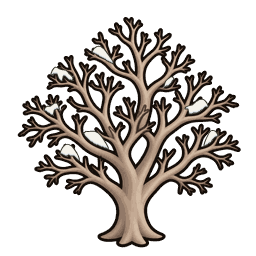
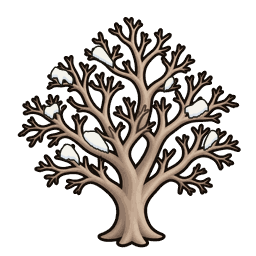
Occlude upper branch face with foreground snow lip

diff --git a/Scripts/Art/build_beech_snow.py b/Scripts/Art/build_beech_snow.py
@@ -21,7 +21,7 @@ LEAFLESS_BRANCHES = (
     (185, 208, 113, 111, 12), (83, 108, 136, 149, 12),
     (204, 218, 146, 140, 10), (60, 79, 158, 161, 12),
 )
-SNOW_OUTLINE = (55, 53, 43, 255)
+SNOW_OUTLINE = (32, 29, 22, 255)
 SNOW_BASE = (245, 243, 235, 255)
 SNOW_SHADOW = (218, 225, 232, 255)
 
@@ -56,20 +56,23 @@ def build_leafless_clumps(master, anchors=None):
         # Contract is independent of painted alpha and never widened after a leak.
         contract.rectangle((x0-2,min(y0,y1)-depth-7,
                             x1+2,max(y0,y1)+5),fill=255)
-        bottom=branch_surface(master,branch)
+        surface=branch_surface(master,branch)
+        # Opaque snow lip covers the original upper outline/wood face.
+        # Ending at the silhouette edge incorrectly leaves wood in foreground.
+        bottom=[(x,y+4) for x,y in surface]
         top=[]
         for x,y in bottom:
             t=(x-x0)/(x1-x0)
             # Thickness tapers into the branch at both ends, with unequal lobes.
             h=1+depth*(math.sin(math.pi*t)**.7)*(.85+.15*math.sin(t*5+index))
             near=[v for xx,v in bottom if abs(xx-x)<=3]
-            top.append((x,sum(near)/len(near)-h))
+            top.append((x,sum(near)/len(near)-h-4))
         polygon=top+list(reversed(bottom))
         draw.polygon([(round(x*scale),round(y*scale)) for x,y in polygon],fill=SNOW_BASE)
-        shadow=[(x,y-1.8) for x,y in bottom]+list(reversed(bottom))
+        shadow=[(x,y-3.5) for x,y in bottom]+list(reversed(bottom))
         draw.polygon([(round(x*scale),round(y*scale)) for x,y in shadow],fill=SNOW_SHADOW)
         draw.line([(round(x*scale),round(y*scale)) for x,y in polygon+[polygon[0]]],
-                  fill=SNOW_OUTLINE,width=scale,joint='curve')
+                  fill=SNOW_OUTLINE,width=round(1.5*scale),joint='curve')
     layer=high.resize(master.size,Image.Resampling.BOX)
     assert all(not a or m for a,m in zip(layer.getchannel('A').tobytes(),mask.tobytes())), 'Artwork escaped review contract'
     return mask,layer
@@ -130,11 +133,11 @@ def build(leafless):
     if leafless:
         approval_basis = (
             'Rejected by author on 2026-10-06 because snow read as thin '
-            'branch-following lines; branch-contact snow revision 3 awaiting review'
+            'branch-following lines; front-occluding snow revision 4 awaiting review'
         )
         mask_meaning = (
             'Eight narrow branch corridors traced against original opaque upper surfaces; '
-            'unapproved revision 3, unchanged lower trunk and all outside RGBA'
+            'unapproved revision 4, unchanged lower trunk and all outside RGBA'
         )
     else:
         approval_basis = (
@@ -147,7 +150,7 @@ def build(leafless):
     spec = {
         'version': 1,
         'family': f'AMJE-{name}-snow',
-        'template_revision': 'v3-review' if leafless else 'v1',
+        'template_revision': 'v4-review' if leafless else 'v1',
         'production_status': 'review',
         'size': [256, 256],
         'master': {'path': 'master.png', 'sha256': sha(source)},

diff --git a/Tests/validate_beech_snow.py b/Tests/validate_beech_snow.py
@@ -8,6 +8,7 @@ sys.path.insert(0,str(root/'Tests/Tools'))
 import fixed_template
 sys.path.insert(0, str(root/'Scripts/Art'))
 from build_haimatsu_snow import components
+from build_beech_snow import branch_surface, LEAFLESS_BRANCHES
 
 
 def validate_leafless_massing(layer, base):
@@ -23,9 +24,10 @@ def validate_leafless_massing(layer, base):
         outline = sum(max(layer.getpixel(p)[:3]) < 100 for p in mass)
         assert outline >= 20, 'Snow needs a strong dark outer contour'
         bottom={x:max(yy for xx,yy in mass if xx==x) for x,y in mass}
-        supported=sum(any(base.getpixel((x,min(base.height-1,y+dy)))[3]>=128
-                          for dy in (0,1)) for x,y in bottom.items())
-        assert supported/len(bottom)>=.90, 'Snow bottom must contact branch across its width'
+        supported=sum(any(base.getpixel((x,yy))[3]>=128
+                          for yy in range(min(y for xx,y in mass if xx==x), min(base.height, y+2)))
+                      for x,y in bottom.items())
+        assert supported/len(bottom)>=.90, 'Snow must overlap a supporting branch across its width'
     return len(masses), len(solid)
 
 
@@ -74,6 +76,14 @@ for name,field in [('Beech','snowOverlayGraphicPath'),('Beech_Leafless','leafles
     assert preview.tobytes()==Image.open(template.parent/'exact-composite.png').convert('RGBA').tobytes()
     assert any(a and not m for a,m in zip(ImageChops.offset(layer,12,0).getchannel('A').tobytes(),mask.tobytes()))
     if name=='Beech_Leafless':
+        for corridor in LEAFLESS_BRANCHES:
+            for x,y in branch_surface(base,corridor)[2:-2]:
+                # Snow must hide the original upper outline and adjacent wood,
+                # not merely sit behind/touch the branch silhouette.
+                assert min(layer.getpixel((x,y))[3],layer.getpixel((x,y+1))[3])>=245, 'Original upper branch face leaks in front of snow'
+        reversed_order=Image.alpha_composite(layer,base)
+        assert reversed_order.tobytes()!=preview.tobytes(), 'Snow layer-order regression fixture ineffective'
+        print('[OK] Snow hides upper branch face; wood-over-snow order rejected')
         count, area = validate_leafless_massing(layer,base)
         print('[OK] Leafless snow supported outlined masses:', count, 'solid pixels:', area)
         spec=json.loads(template.read_text(encoding='utf-8'))

diff --git a/Docs/ArtDirection.md b/Docs/ArtDirection.md
@@ -559,3 +559,9 @@ Current replacement is a local, deterministically painted twelve-cap candidate, 
 The author rejected the twelve-cap repair because it did not consider actual branches. Proximity to any wood pixel was insufficient: a horizontal snow bbox can overlap a branch while its lower edge still floats or crosses the branch direction. Revision 2 is invalid as a production or style reference.
 
 Revision `v3-review` uses eight narrow selected branch corridors on the unchanged master. For every column, trace the original opaque upper surface and use it as the snow contact boundary; upper snow thickness tapers along that boundary rather than imposing an independent horizontal cap. Keep branches below visible. Validate contact along at least 90% of the entire lower boundary with no more than one-pixel AA tolerance, not a fraction of the snow interior. The new partial-support regression rejects the earlier insufficient criterion. Current candidate has full lower-boundary contact on all eight shapes; that proves geometry only, not author visual acceptance. All statuses remain pending/review.
+
+### Revision 4 — snow foreground occlusion, still unapproved
+
+Author reported that revision 3 looked as though snow was a lower layer. Binary composition was already master -> snow; the visual error was stopping the cap at the wood silhouette, leaving the original upper outline/wood face foreground-visible. Revision 4 retains the same eight branch corridors and unchanged mask/master, but extends an opaque four-pixel snow lip over the original upper branch face. A broad blue-grey front plane and darker contour make the cap thickness visible. The original upper outline and its adjacent wood are covered, not redrawn above snow.
+
+Physical branch support and final visible snow rim are distinct: a front lip may overhang the support edge. Do not force that rim to end at the original silhouette or restore the original wood contour in front. Validate supporting branch overlap across cap width and require opaque snow over the original upper surface/adjacent face. Exact master -> snow composition and a wood-over-snow negative fixture lock order separately. Revision `v4-review` remains REVIEW with no accepted filled exemplar or native visual acceptance.

diff --git a/Docs/PlantSnowOverlayPlan.md b/Docs/PlantSnowOverlayPlan.md
@@ -46,3 +46,9 @@ Latest main had already removed the frozen shared prompt in favor of Core ArtSty
 The author rejected the twelve-cap repair because it did not consider actual branches. Proximity to any wood pixel was insufficient: a horizontal snow bbox can overlap a branch while its lower edge still floats or crosses the branch direction. Revision 2 is invalid as a production or style reference.
 
 Revision `v3-review` uses eight narrow selected branch corridors on the unchanged master. For every column, trace the original opaque upper surface and use it as the snow contact boundary; upper snow thickness tapers along that boundary rather than imposing an independent horizontal cap. Keep branches below visible. Validate contact along at least 90% of the entire lower boundary with no more than one-pixel AA tolerance, not a fraction of the snow interior. The new partial-support regression rejects the earlier insufficient criterion. Current candidate has full lower-boundary contact on all eight shapes; that proves geometry only, not author visual acceptance. All statuses remain pending/review.
+
+### Revision 4 — snow foreground occlusion, still unapproved
+
+Author reported that revision 3 looked as though snow was a lower layer. Binary composition was already master -> snow; the visual error was stopping the cap at the wood silhouette, leaving the original upper outline/wood face foreground-visible. Revision 4 retains the same eight branch corridors and unchanged mask/master, but extends an opaque four-pixel snow lip over the original upper branch face. A broad blue-grey front plane and darker contour make the cap thickness visible. The original upper outline and its adjacent wood are covered, not redrawn above snow.
+
+Physical branch support and final visible snow rim are distinct: a front lip may overhang the support edge. Do not force that rim to end at the original silhouette or restore the original wood contour in front. Validate supporting branch overlap across cap width and require opaque snow over the original upper surface/adjacent face. Exact master -> snow composition and a wood-over-snow negative fixture lock order separately. Revision `v4-review` remains REVIEW with no accepted filled exemplar or native visual acceptance.

diff --git a/Docs/ValidationEvidence/BeechLeaflessSnowRepairAudit.md b/Docs/ValidationEvidence/BeechLeaflessSnowRepairAudit.md
@@ -42,3 +42,13 @@ Revision 3 keeps the master exact, traces upper branch pixels inside eight prede
[3 lines of base64/hex data omitted]
+
+### Revision 4 — snow foreground occlusion, still unapproved
+
+Author reported that revision 3 looked as though snow was a lower layer. Binary composition was already master -> snow; the visual error was stopping the cap at the wood silhouette, leaving the original upper outline/wood face foreground-visible. Revision 4 retains the same eight branch corridors and unchanged mask/master, but extends an opaque four-pixel snow lip over the original upper branch face. A broad blue-grey front plane and darker contour make the cap thickness visible. The original upper outline and its adjacent wood are covered, not redrawn above snow.
+
+Physical branch support and final visible snow rim are distinct: a front lip may overhang the support edge. Do not force that rim to end at the original silhouette or restore the original wood contour in front. Validate supporting branch overlap across cap width and require opaque snow over the original upper surface/adjacent face. Exact master -> snow composition and a wood-over-snow negative fixture lock order separately. Revision `v4-review` remains REVIEW with no accepted filled exemplar or native visual acceptance.
[4 lines of base64/hex data omitted]
